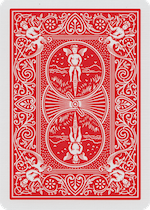
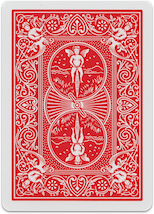
Perf improvements

diff --git a/public/ui_controller.js b/public/ui_controller.js
@@ -1,1 +1,1 @@
-class UIController{constructor(){this.name=null,this.socket=io(),this.canvas=document.getElementById("canvas"),this.slider=document.getElementById("slider"),this.graphicsContext=canvas.getContext("2d"),this.cards=[],this.grabbedCardID=null,this.players=[],this.currentPlayerIndex=null}begin(){this.graphics=new Graphics(this,this.canvas,this.graphicsContext),new MouseHandler(this,this.graphics,this.slider),this.socket.on("card data",this.updateCardsFromScocket.bind(this)),this.socket.on("single card data",this.updateSingleCardFromScocket.bind(this)),this.socket.on("register name",this.updateName.bind(this)),this.socket.on("players",this.updatePlayers.bind(this)),this.socket.on("game ID error",this.showError.bind(this)),this.socket.on("card download",this.downloadCardImage.bind(this)),this.socket.on("rearrange cards",this.rearrangeCards.bind(this))}updateName(a){const{playerName:b,gameID:c}=a;this.name=b;const d=document.getElementsByTagName("body")[0];d.className="playing";const e=document.getElementById("gameID");e.innerHTML="Game ID:<span>"+c+"</span>"}updatePlayers(a){this.players=a.players,this.currentPlayerIndex=a.currentPlayerIndex;const b=document.getElementById("players");for(;b.firstChild;)b.removeChild(b.firstChild);for(let c in this.players){const a=this.players[c],d=document.createElement("div");d.innerHTML=a,a==this.name&&(d.innerHTML+=" (You)"),c==this.currentPlayerIndex&&(d.className="current"),b.appendChild(d)}}hasName(){return null!=this.name}isTurn(){return this.players.indexOf(this.name)===this.currentPlayerIndex}submitName(a,b,c){b=b.toUpperCase();this.hasName()||this.socket.emit("enter",{name:a,gameID:b,verifyGameID:c})}cloneCard(a){return new Card(a.id,a.rotation,a.x,a.y,a.freed,a.rank,a.suite,a.width,a.height)}updateCardsFromScocket(a){this.cards=[],a.forEach(a=>{const b=this.cloneCard(a);this.cards.push(b)})}updateSingleCardFromScocket(a){const{id:b,card:c}=a;for(let d in this.cards){const a=this.cards[d];if(a.id==b)return void(this.cards[d]=this.cloneCard(c))}}rearrangeCards(a){const{from:b,to:c}=a,d=this.cards.splice(b,1)[0];this.cards.splice(c,0,d)}showError(){const a=document.getElementsByTagName("body")[0];a.className="error"}getCards(){return this.cards}isCardGrabbed(){return null!==this.grabbedCardID}grabCard(a){this.grabbedCardID=a.id,this.socket.emit("card move",{id:a.id,x:0,y:0})}releaseCard(){null!=this.grabbedCardID&&this.socket.emit("card release",{id:this.grabbedCardID}),this.grabbedCardID=null}moveCard(a,b){null==this.grabbedCardID||this.socket.emit("card move",{id:this.grabbedCardID,x:a,y:b})}downloadCardImage(a){const{rank:b,suite:c}=a;this.graphics.downloadCardImage(b,c)}setZoom(a){const b=Math.pow(10,a/100);this.graphics.setUserScale(b)}updateSlider(a){const b=100*Math.log10(a);this.slider.value=b}}"undefined"!=typeof module&&(module.exports=UIController);
+class UIController{constructor(){this.name=null,this.socket=io(),this.onScreenCanvas=document.getElementById("canvas"),this.offScreenCanvas=document.getElementById("canvas2"),this.slider=document.getElementById("slider"),this.onScreenCTX=this.onScreenCanvas.getContext("2d"),this.offScreenCTX=this.offScreenCanvas.getContext("2d"),this.cards=[],this.grabbedCard=null,this.players=[],this.currentPlayerIndex=null}begin(){this.graphics=new Graphics(this,this.onScreenCanvas,this.offScreenCanvas,this.onScreenCTX,this.offScreenCTX),new MouseHandler(this,this.graphics,this.slider),this.socket.on("card data",this.updateCardsFromScocket.bind(this)),this.socket.on("single card data",this.updateSingleCardFromScocket.bind(this)),this.socket.on("register name",this.updateName.bind(this)),this.socket.on("players",this.updatePlayers.bind(this)),this.socket.on("game ID error",this.showError.bind(this)),this.socket.on("card download",this.downloadCardImage.bind(this)),this.socket.on("rearrange cards",this.rearrangeCards.bind(this))}updateName(a){const{playerName:b,gameID:c}=a;this.name=b;const d=document.getElementsByTagName("body")[0];d.className="playing";const e=document.getElementById("gameID");e.innerHTML="Game ID:<span>"+c+"</span>"}updatePlayers(a){this.players=a.players,this.currentPlayerIndex=a.currentPlayerIndex;const b=document.getElementById("players");for(;b.firstChild;)b.removeChild(b.firstChild);for(let c in this.players){const a=this.players[c],d=document.createElement("div");d.innerHTML=a,a==this.name&&(d.innerHTML+=" (You)"),c==this.currentPlayerIndex&&(d.className="current"),b.appendChild(d)}}hasName(){return null!=this.name}isTurn(){return this.players.indexOf(this.name)===this.currentPlayerIndex}submitName(a,b,c){b=b.toUpperCase();this.hasName()||this.socket.emit("enter",{name:a,gameID:b,verifyGameID:c})}updateCardsFromScocket(a){this.cards=[],a.forEach(a=>{const b=Card.from(a);this.cards.push(b)})}updateSingleCardFromScocket(){}rearrangeCards(a){const{from:b,to:c}=a,d=this.cards.splice(b,1)[0];this.cards.splice(c,0,d)}showError(){const a=document.getElementsByTagName("body")[0];a.className="error"}getCards(){return this.cards}isCardGrabbed(){return null!==this.grabbedCard}grabCard(a){this.grabbedCard=a,this.socket.emit("card move",{id:a.getID(),x:0,y:0})}releaseCard(){null!=this.grabbedCard&&this.socket.emit("card release",{id:this.grabbedCard.getID()}),this.grabbedCard=null}moveCard(a,b,c,d){null==this.grabbedCard||(this.grabbedCard.x=c,this.grabbedCard.y=d,this.socket.emit("card move",{id:this.grabbedCard.getID(),x:a,y:b}))}downloadCardImage(a){const{rank:b,suite:c}=a;this.graphics.downloadCardImage(b,c)}setZoom(a){const b=Math.pow(10,a/100);this.graphics.setUserScale(b)}updateSlider(a){const b=100*Math.log10(a);this.slider.value=b}}"undefined"!=typeof module&&(module.exports=UIController);

diff --git a/public/mouse_handler.js b/public/mouse_handler.js
@@ -1,1 +1,1 @@
-class MouseHandler{constructor(a,b,c){this.controller=a,this.graphics=b,this.slider=c,this.isDraggingScreen,this.isZooming=!1,this.dragX=null,this.dragY=null,this.initListeners()}initListeners(){document.addEventListener("mousedown",this.mousedown.bind(this)),document.addEventListener("touchstart",this.mousedown.bind(this)),document.addEventListener("mousemove",this.mousemove.bind(this)),document.addEventListener("touchmove",this.mousemove.bind(this)),document.addEventListener("mouseup",this.mouseup.bind(this)),document.addEventListener("touchend",this.mouseup.bind(this));const a=document.getElementById("enter");a.addEventListener("click",this.enterGame.bind(this)),document.addEventListener("keyup",this.enterGameKey.bind(this));const b=document.getElementById("join");b.addEventListener("click",this.joinGame.bind(this)),this.slider.addEventListener("mousedown",this.zoomStart.bind(this)),this.slider.addEventListener("touchstart",this.zoomStart.bind(this)),this.slider.addEventListener("mousemove",this.zoom.bind(this)),this.slider.addEventListener("touchmove",this.zoom.bind(this)),this.slider.addEventListener("mouseup",this.zoomEnd.bind(this)),this.slider.addEventListener("touchend",this.zoomEnd.bind(this))}mousedown(a){if(!this.controller.hasName())return;a.touches&&(a=a.touches[0]),this.dragX=a.clientX,this.dragY=a.clientY;let b=null;if(this.controller.isTurn()){const c=this.controller.getCards();for(let d=c.length-1;0<=d;d--){const e=this.graphics.convertRealToVirtualX(a.clientX),f=this.graphics.convertRealToVirtualY(a.clientY);if(c[d].intersects(e,f)){b=c[d];break}}}return null==b?this.isDraggingScreen=!0:this.controller.grabCard(b),!1}mousemove(a){if(!this.controller.hasName())return;if(a.touches&&(a=a.touches[0]),null==this.dragX||null==this.dragY)return;const b=a.clientX-this.dragX,c=a.clientY-this.dragY;if(this.dragX=a.clientX,this.dragY=a.clientY,this.controller.isCardGrabbed()){const a=this.graphics.convertToVirtualScale(b),d=this.graphics.convertToVirtualScale(c);this.controller.moveCard(a,d)}else this.isDraggingScreen&&this.graphics.dragScreen(b,c)}mouseup(){this.controller.hasName()&&(this.controller.releaseCard(),this.dragX=null,this.dragY=null,this.isDraggingScreen=!1)}enterGame(a,b){b||(b=!1);const c=document.getElementById("name").value,d=document.getElementById("code").value;this.controller.submitName(c,d,b)}enterGameKey(a){13!==a.keyCode||this.enterGame(a,!1)}joinGame(a){a.stopPropagation(),this.enterGame(a,!0)}zoomStart(a){a.stopPropagation(),this.isZooming=!0}zoom(a){this.isZooming&&(a.stopPropagation(),this.controller.setZoom(a.toElement.value))}zoomEnd(){this.isZooming=!1}}"undefined"!=typeof module&&(module.exports=MouseHandler);
+class MouseHandler{constructor(a,b,c){this.controller=a,this.graphics=b,this.slider=c,this.isDraggingScreen,this.isZooming=!1,this.dragX=null,this.dragY=null,this.initListeners()}initListeners(){document.addEventListener("mousedown",this.mousedown.bind(this)),document.addEventListener("touchstart",this.mousedown.bind(this)),document.addEventListener("mousemove",this.mousemove.bind(this)),document.addEventListener("touchmove",this.mousemove.bind(this)),document.addEventListener("mouseup",this.mouseup.bind(this)),document.addEventListener("touchend",this.mouseup.bind(this));const a=document.getElementById("enter");a.addEventListener("click",this.enterGame.bind(this)),document.addEventListener("keyup",this.enterGameKey.bind(this));const b=document.getElementById("join");b.addEventListener("click",this.joinGame.bind(this)),this.slider.addEventListener("mousedown",this.zoomStart.bind(this)),this.slider.addEventListener("touchstart",this.zoomStart.bind(this)),this.slider.addEventListener("mousemove",this.zoom.bind(this)),this.slider.addEventListener("touchmove",this.zoom.bind(this)),this.slider.addEventListener("mouseup",this.zoomEnd.bind(this)),this.slider.addEventListener("touchend",this.zoomEnd.bind(this))}mousedown(a){if(!this.controller.hasName())return;a.touches&&(a=a.touches[0]),this.dragX=a.clientX,this.dragY=a.clientY;let b=null;if(this.controller.isTurn()){const c=this.controller.getCards();for(let d=c.length-1;0<=d;d--){const e=this.graphics.convertRealToVirtualX(a.clientX),f=this.graphics.convertRealToVirtualY(a.clientY);if(c[d].intersects(e,f)){b=c[d];break}}}return null==b?this.isDraggingScreen=!0:this.controller.grabCard(b),!1}mousemove(a){if(!this.controller.hasName())return;if(a.touches&&(a=a.touches[0]),null==this.dragX||null==this.dragY)return;const b=a.clientX-this.dragX,c=a.clientY-this.dragY;if(this.dragX=a.clientX,this.dragY=a.clientY,this.controller.isCardGrabbed()){const d=this.graphics.convertToVirtualScale(b),e=this.graphics.convertToVirtualScale(c),f=this.graphics.convertRealToVirtualX(a.clientX),g=this.graphics.convertRealToVirtualY(a.clientY);this.controller.moveCard(d,e,f,g)}else this.isDraggingScreen&&this.graphics.dragScreen(b,c)}mouseup(){this.controller.hasName()&&(this.controller.releaseCard(),this.dragX=null,this.dragY=null,this.isDraggingScreen=!1)}enterGame(a,b){b||(b=!1);const c=document.getElementById("name").value,d=document.getElementById("code").value;this.controller.submitName(c,d,b)}enterGameKey(a){13!==a.keyCode||this.enterGame(a,!1)}joinGame(a){a.stopPropagation(),this.enterGame(a,!0)}zoomStart(a){a.stopPropagation(),this.isZooming=!0}zoom(a){this.isZooming&&(a.stopPropagation(),this.controller.setZoom(a.toElement.value))}zoomEnd(){this.isZooming=!1}}"undefined"!=typeof module&&(module.exports=MouseHandler);

diff --git a/public/graphics.js b/public/graphics.js
@@ -1,1 +1,1 @@
-class Graphics{constructor(a,b,c){this.controller=a,this.canvas=b,this.ctx=c,this.dragX=0,this.dragY=0,this.scale=null,this.cardBackImage=null,this.tableImage=null,this.cardFaceImages={},this.loadImages(),this.drawLoop(),window.addEventListener("resize",this.onResize.bind(this))}loadImages(){this.cardBackImage=new Image,this.cardBackImage.src="images/back.png",this.tableImage=new Image,this.tableImage.src="images/stone.jpg",this.logoImage=new Image,this.logoImage.src="images/logo.png",this.rules1Image=new Image,this.rules1Image.src="images/rules1.png",this.rules2Image=new Image,this.rules2Image.src="images/rules2.png",Card.RANKS.forEach(a=>{this.cardFaceImages[a]={}})}drawLoop(){this.ctx.save(),this.clearAndResize(),this.drawCards(),this.ctx.restore(),setTimeout(this.drawLoop.bind(this),100)}onResize(){null==this.scale&&(this.scale=1.5);const a=window.innerWidth*2,b=window.innerHeight*2,c=5*(this.scale*Card.HEIGHT);if(c>a||c>b){const d=Math.min(a/c,b/c);this.scale=d*this.scale,this.controller.updateSlider(this.scale)}}clearAndResize(){const a=this.ctx,b=window.innerWidth*2,c=window.innerHeight*2;null==this.scale&&this.onResize(),this.canvas.width=b,this.canvas.height=c,this.canvas.style=`width: ${b/2}px; height: ${c/2}px`,this.drawBackground(b,c),this.translateX=b/2,this.translateY=c/2,a.translate(this.translateX,this.translateY),a.translate(this.dragX,this.dragY),a.scale(this.scale,this.scale);a.drawImage(this.logoImage,-180,-180,360,360)}drawBackground(a,b){const c=this.ctx,d=c.createPattern(this.tableImage,"repeat");if(null!=d){const c=new DOMMatrix,e=c.translateSelf(this.dragX+a/2,this.dragY+b/2,0).scaleSelf(2*this.scale,2*this.scale,1);d.setTransform(e)}c.fillStyle=d,c.fillRect(0,0,a,b)}drawCards(){const a=this.controller.getCards();for(const b in a){const c=a[b],{rank:d,suite:e}=c.getRankAndSuite();if("rules1"==c.getID())c.draw(this.ctx,this.rules1Image);else if("rules2"==c.getID())c.draw(this.ctx,this.rules2Image);else if(null==d||null==e)c.draw(this.ctx,this.cardBackImage);else{const a=this.downloadCardImage(d,e);c.draw(this.ctx,a)}}}downloadCardImage(a,b){let c=this.cardFaceImages[a][b];return null==c&&(c=new Image,this.cardFaceImages[a][b]=c,c.src=`images/cards/${a}${b}.png`),c}convertRealToVirtualX(a){return(2*a-this.translateX-this.dragX)/this.scale}convertRealToVirtualY(a){return(2*a-this.translateY-this.dragY)/this.scale}convertToVirtualScale(a){return 2*a/this.scale}dragScreen(a,b){this.dragX+=a,this.dragY+=b}setUserScale(a){this.scale=a}}"undefined"!=typeof module&&(module.exports=Graphics);
+class Graphics{constructor(a,b,c,d,e){this.controller=a,this.onScreenCanvas=b,this.offScreenCanvas=c,this.onScreenCTX=d,this.ctx=e,this.dragX=0,this.dragY=0,this.scale=null,this.cardBackImage=null,this.tableImage=null,this.cardFaceImages={},this.loadImages(),window.requestAnimationFrame(this.drawLoop.bind(this)),window.addEventListener("resize",this.onResize.bind(this))}loadImages(){this.cardBackImage=new Image,this.cardBackImage.src="images/back.png",this.tableImage=new Image,this.tableImage.src="images/stone.jpg",this.logoImage=new Image,this.logoImage.src="images/logo.png",this.rules1Image=new Image,this.rules1Image.src="images/rules1.png",this.rules2Image=new Image,this.rules2Image.src="images/rules2.png",Card.RANKS.forEach(a=>{this.cardFaceImages[a]={}})}drawLoop(){this.ctx.save(),this.clearAndResize(),this.drawCards(),this.ctx.restore(),this.onScreenCTX.drawImage(this.offScreenCanvas,0,0),window.requestAnimationFrame(this.drawLoop.bind(this))}onResize(){null==this.scale&&(this.scale=1.5);const a=window.innerWidth*2,b=window.innerHeight*2,c=5*(this.scale*Card.HEIGHT);if(c>a||c>b){const d=Math.min(a/c,b/c);this.scale=d*this.scale,this.controller.updateSlider(this.scale)}}clearAndResize(){const a=this.ctx,b=window.innerWidth*2,c=window.innerHeight*2;null==this.scale&&this.onResize(),this.onScreenCanvas.width=b,this.onScreenCanvas.height=c,this.offScreenCanvas.width=b,this.offScreenCanvas.height=c,this.onScreenCanvas.style=`width: ${b/2}px; height: ${c/2}px`,this.drawBackground(b,c),this.translateX=b/2,this.translateY=c/2,a.translate(this.translateX,this.translateY),a.translate(this.dragX,this.dragY),a.scale(this.scale,this.scale);a.drawImage(this.logoImage,-180,-180,360,360)}drawBackground(a,b){const c=this.ctx,d=c.createPattern(this.tableImage,"repeat");if(null!=d){const c=new DOMMatrix,e=c.translateSelf(this.dragX+a/2,this.dragY+b/2,0).scaleSelf(2*this.scale,2*this.scale,1);d.setTransform(e)}c.fillStyle=d,c.fillRect(0,0,a,b)}drawCards(){const a=this.controller.getCards();for(const b in a){const c=a[b],{rank:d,suite:e}=c.getRankAndSuite();if("rules1"==c.getID())c.draw(this.ctx,this.rules1Image);else if("rules2"==c.getID())c.draw(this.ctx,this.rules2Image);else if(null==d||null==e)c.draw(this.ctx,this.cardBackImage);else{const a=this.downloadCardImage(d,e);c.draw(this.ctx,a)}}}downloadCardImage(a,b){let c=this.cardFaceImages[a][b];return null==c&&(c=new Image,this.cardFaceImages[a][b]=c,c.src=`images/cards/${a}${b}.png`),c}convertRealToVirtualX(a){return(2*a-this.translateX-this.dragX)/this.scale}convertRealToVirtualY(a){return(2*a-this.translateY-this.dragY)/this.scale}convertToVirtualScale(a){return 2*a/this.scale}dragScreen(a,b){this.dragX+=a,this.dragY+=b}setUserScale(a){this.scale=a}}"undefined"!=typeof module&&(module.exports=Graphics);

diff --git a/frontend_js/ui_controller.js b/frontend_js/ui_controller.js
@@ -4,17 +4,19 @@ class UIController {
   constructor() {
     this.name = null;
     this.socket = io();
-    this.canvas = document.getElementById('canvas');
+    this.onScreenCanvas = document.getElementById('canvas');
+    this.offScreenCanvas = document.getElementById('canvas2');
     this.slider = document.getElementById("slider");
-    this.graphicsContext = canvas.getContext('2d');
+    this.onScreenCTX = this.onScreenCanvas.getContext('2d');
+    this.offScreenCTX = this.offScreenCanvas.getContext('2d');
     this.cards = [];
-    this.grabbedCardID = null;
+    this.grabbedCard = null;
     this.players = [];
     this.currentPlayerIndex = null;
   }
 
   begin() {
-    this.graphics = new Graphics(this, this.canvas, this.graphicsContext);
+    this.graphics = new Graphics(this, this.onScreenCanvas, this.offScreenCanvas, this.onScreenCTX, this.offScreenCTX);
     new MouseHandler(this, this.graphics, this.slider);
     this.socket.on('card data', this.updateCardsFromScocket.bind(this));
     this.socket.on('single card data', this.updateSingleCardFromScocket.bind(this));
@@ -72,34 +74,26 @@ class UIController {
     this.socket.emit('enter', {name, gameID, verifyGameID});
   }
 
-  cloneCard(card) {
-    return new Card(
-      card.id,
-      card.rotation,
-      card.x,
-      card.y,
-      card.freed,
-      card.rank,
-      card.suite,
-      card.width,
-      card.height
-    );
-  }
-
   updateCardsFromScocket(cardData) {
     this.cards = [];
     cardData.forEach((card) => {
-      const newCard = this.cloneCard(card);
+      const newCard = Card.from(card);
       this.cards.push(newCard);
     });
   }
 
   updateSingleCardFromScocket(data) {
-    const {id, card} = data;
+    const {id, card, name} = data;
     for (let i in this.cards) {
       const oldCard = this.cards[i];
       if (oldCard.id == id) {
-        this.cards[i] = this.cloneCard(card);
+        if (this.grabbedCard == null || name != this.name) {
+          oldCard.x = card.x;
+          oldCard.y = card.y;
+        }
+        oldCard.freed = card.freed;
+        oldCard.rank = card.rank;
+        oldCard.suite = card.suite;
         return;
       }
     }
@@ -121,26 +115,29 @@ class UIController {
   }
 
   isCardGrabbed() {
-    return this.grabbedCardID !== null;
+    return this.grabbedCard !== null;
   }
 
   grabCard(grabbedCard) {
-    this.grabbedCardID = grabbedCard.id;
-    this.socket.emit('card move', { id: grabbedCard.id, x: 0, y: 0});
+    this.grabbedCard = grabbedCard;
+    this.socket.emit('card move', { id: grabbedCard.getID(), x: 0, y: 0});
   }
 
   releaseCard() {
-    if (this.grabbedCardID != null) {
-      this.socket.emit('card release', { id: this.grabbedCardID });
+    if (this.grabbedCard != null) {
+      this.socket.emit('card release', { id: this.grabbedCard.getID() });
     }
-    this.grabbedCardID = null;
+    this.grabbedCard = null;
   }
 
-  moveCard(x, y) {
-    if (this.grabbedCardID == null) {
+  moveCard(byX, byY, toX, toY) {
+    if (this.grabbedCard == null) {
       return;
     }
-    this.socket.emit('card move', { id: this.grabbedCardID, x, y});
+
+    this.grabbedCard.x = toX;
+    this.grabbedCard.y = toY;
+    this.socket.emit('card move', { id: this.grabbedCard.getID(), x: byX, y: byY});
   }
 
   downloadCardImage(data) {

diff --git a/public/card.js b/public/card.js
@@ -1,1 +1,1 @@
-class Card{static get WIDTH(){return 150}static get HEIGHT(){return 210}static get SUITES(){return["C","D","H","S"]}static get RANKS(){return["2","3","4","5","6","7","8","9","10","J","Q","K","A"]}constructor(a,b,c,d,e,f,g,h,i){this.id=a,this.rotation=b,this.x=c,this.y=d,this.freed=e,this.rank=f,this.suite=g,this.width=h?h:Card.WIDTH,this.height=i?i:Card.HEIGHT}getID(){return this.id}getRankAndSuite(){return{rank:this.rank,suite:this.suite}}getEdges(){var e=Math.sin,f=Math.cos;Number.isInteger(2*this.rotation/Math.PI)&&(this.rotation+=.01);const g=this.height*f(this.rotation),a=this.width*e(this.rotation),b=this.width*f(this.rotation),c=this.height*e(this.rotation),d=this.x-(b+c)/2,h=this.y+(g-a)/2,i=this.x-(c-b)/2,j=this.y+(g+a)/2,k=this.x+(b+c)/2,l=this.y-(g-a)/2,m=this.x+(c-b)/2,n=this.y-(g+a)/2;return{slope1:a/b,slope2:g/c,p1x:d,p1y:h,p2x:i,p2y:j,p3x:k,p3y:l,p4x:m,p4y:n}}intersects(a,b){var c=Math.sign;const d=this.getEdges(),e=c(Math.sin(this.rotation)),f=c(Math.cos(this.rotation));return f*b<f*(a=>a*d.slope1-d.p1x*d.slope1+d.p1y)(a)&&e*b<e*(a=>-a*d.slope2+d.p3x*d.slope2+d.p3y)(a)&&e*b>e*(a=>-a*d.slope2+d.p1x*d.slope2+d.p1y)(a)&&f*b>f*(a=>a*d.slope1-d.p3x*d.slope1+d.p3y)(a)}distanceFromCenter(){return Math.sqrt(this.x*this.x+this.y*this.y)}draw(a,b){let c=this.width,d=this.height;this.freed&&(c*=1.5,d*=1.5),a.save(),a.translate(this.x,this.y),a.rotate(this.rotation),a.translate(-c/2,-d/2),a.fillStyle="rgba(0,0,0,0.01)",a.shadowColor="rgba(0,0,0,1)",a.shadowBlur=3,a.shadowOffsetX=1,a.shadowOffsetY=1,a.fillRect(0,0,c,d),a.drawImage(b,0,0,c,d),a.restore()}}"undefined"!=typeof module&&(module.exports=Card);
+class Card{static get WIDTH(){return 154}static get HEIGHT(){return 214}static get SUITES(){return["C","D","H","S"]}static get RANKS(){return["2","3","4","5","6","7","8","9","10","J","Q","K","A"]}constructor(a,b,c,d,e,f,g,h,i){this.id=a,this.rotation=b,this.x=c,this.y=d,this.freed=e,this.rank=f,this.suite=g,this.width=h?h:Card.WIDTH,this.height=i?i:Card.HEIGHT}static from(a){return new Card(a.id,a.rotation,a.x,a.y,a.freed,a.rank,a.suite,a.width,a.height)}getID(){return this.id}getRankAndSuite(){return{rank:this.rank,suite:this.suite}}getEdges(){var e=Math.sin,f=Math.cos;Number.isInteger(2*this.rotation/Math.PI)&&(this.rotation+=.01);const g=this.height*f(this.rotation),a=this.width*e(this.rotation),b=this.width*f(this.rotation),c=this.height*e(this.rotation),d=this.x-(b+c)/2,h=this.y+(g-a)/2,i=this.x-(c-b)/2,j=this.y+(g+a)/2,k=this.x+(b+c)/2,l=this.y-(g-a)/2,m=this.x+(c-b)/2,n=this.y-(g+a)/2;return{slope1:a/b,slope2:g/c,p1x:d,p1y:h,p2x:i,p2y:j,p3x:k,p3y:l,p4x:m,p4y:n}}intersects(a,b){var c=Math.sign;const d=this.getEdges(),e=c(Math.sin(this.rotation)),f=c(Math.cos(this.rotation));return f*b<f*(a=>a*d.slope1-d.p1x*d.slope1+d.p1y)(a)&&e*b<e*(a=>-a*d.slope2+d.p3x*d.slope2+d.p3y)(a)&&e*b>e*(a=>-a*d.slope2+d.p1x*d.slope2+d.p1y)(a)&&f*b>f*(a=>a*d.slope1-d.p3x*d.slope1+d.p3y)(a)}distanceFromCenter(){return Math.sqrt(this.x*this.x+this.y*this.y)}draw(a,b){let c=this.width,d=this.height;this.freed&&(c*=1.5,d*=1.5),a.save(),a.translate(this.x,this.y),a.rotate(this.rotation),a.translate(-c/2,-d/2),a.drawImage(b,0,0,c,d),a.restore()}}"undefined"!=typeof module&&(module.exports=Card);

diff --git a/frontend_js/graphics.js b/frontend_js/graphics.js
@@ -1,10 +1,12 @@
 // Copyright 2020, Zaven Nahapetyan
 
 class Graphics {
-  constructor(controller, canvas, ctx) {
+  constructor(controller, onScreenCanvas, offScreenCanvas, onScreenCTX, offScreenCTX) {
     this.controller = controller;
-    this.canvas = canvas;
-    this.ctx = ctx;
+    this.onScreenCanvas = onScreenCanvas;
+    this.offScreenCanvas = offScreenCanvas;
+    this.onScreenCTX = onScreenCTX;
+    this.ctx = offScreenCTX;
     this.dragX = 0;
     this.dragY = 0;
     this.scale = null;
@@ -13,7 +15,7 @@ class Graphics {
     this.tableImage = null;
     this.cardFaceImages = {};
     this.loadImages();
-    this.drawLoop();
+    window.requestAnimationFrame(this.drawLoop.bind(this));
     window.addEventListener('resize', this.onResize.bind(this));
   }
 
@@ -39,7 +41,8 @@ class Graphics {
     this.clearAndResize();
     this.drawCards();
     this.ctx.restore();
-    setTimeout(this.drawLoop.bind(this), 100);
+    this.onScreenCTX.drawImage(this.offScreenCanvas, 0, 0);
+    window.requestAnimationFrame(this.drawLoop.bind(this));
   }
 
   onResize() {
@@ -69,9 +72,12 @@ class Graphics {
       this.onResize();
     }
 
-    this.canvas.width = width;
-    this.canvas.height = height;
-    this.canvas.style =
+    this.onScreenCanvas.width = width;
+    this.onScreenCanvas.height = height;
+    this.offScreenCanvas.width = width;
+    this.offScreenCanvas.height = height;
+
+    this.onScreenCanvas.style =
       `width: ${width / canvasDensity}px; height: ${height / canvasDensity}px`;
     this.drawBackground(width, height);
 

diff --git a/frontend_js/card.js b/frontend_js/card.js
@@ -2,11 +2,11 @@
 
 class Card {
   static get WIDTH() {
-    return 150;
+    return 154;
   }
 
   static get HEIGHT() {
-    return 210;
+    return 214;
   }
 
   static get SUITES() {
@@ -39,6 +39,20 @@ class Card {
     } else {
       this.height = Card.HEIGHT;
     }
+  }
+
+  static from(card) {
+    return new Card(
+      card.id,
+      card.rotation,
+      card.x,
+      card.y,
+      card.freed,
+      card.rank,
+      card.suite,
+      card.width,
+      card.height
+    );
   }
 
   getID() {
@@ -104,13 +118,6 @@ class Card {
     ctx.translate(this.x, this.y);
     ctx.rotate(this.rotation);
     ctx.translate(-width / 2, -height / 2);
-
-    ctx.fillStyle = "rgba(0,0,0,0.01)";
-    ctx.shadowColor = "rgba(0,0,0,1)";
-    ctx.shadowBlur = 3;
-    ctx.shadowOffsetX = 1;
-    ctx.shadowOffsetY = 1;
-    ctx.fillRect(0, 0, width, height);
     ctx.drawImage(cardImage, 0, 0, width, height);
     ctx.restore();
   }

diff --git a/backend_js/backend_controller.js b/backend_js/backend_controller.js
@@ -79,7 +79,7 @@ class BackendController {
           if (game == null) {
             return;
           }
-          const {id, x, y} = data;
+          const {name, id, x, y} = data;
           const gameID = game.getID();
           game.moveCard(id, x, y);
           const grabbedCard = game.getCardByID(id);
@@ -172,8 +172,12 @@ class BackendController {
 
   emitSingleCard(gameID, grabbedCard) {
     const game = this.games[gameID];
+    const activePlayerName = game.getActivePlayer();
     const id = grabbedCard.getID();
-    this.io.to(game.getID()).emit('single card data', {id, card: grabbedCard});
+    this.io.to(game.getID()).emit(
+      'single card data',
+      {id, card: grabbedCard, name: activePlayerName}
+    );
   }
 
   emitCardDownload(gameID, card) {

diff --git a/frontend_js/mouse_handler.js b/frontend_js/mouse_handler.js
@@ -84,9 +84,11 @@ class MouseHandler {
     this.dragY = event.clientY;
 
     if (this.controller.isCardGrabbed()) {
-      const x = this.graphics.convertToVirtualScale(moveByX);
-      const y = this.graphics.convertToVirtualScale(moveByY);
-      this.controller.moveCard(x, y);
+      const byX = this.graphics.convertToVirtualScale(moveByX);
+      const byY = this.graphics.convertToVirtualScale(moveByY);
+      const toX = this.graphics.convertRealToVirtualX(event.clientX);
+      const toY = this.graphics.convertRealToVirtualY(event.clientY);
+      this.controller.moveCard(byX, byY, toX, toY);
     } else if (this.isDraggingScreen) {
       this.graphics.dragScreen(moveByX, moveByY);
     }

diff --git a/backend_js/game.js b/backend_js/game.js
@@ -40,6 +40,13 @@ class Game {
     };
   }
 
+  getActivePlayer() {
+    if (this.players.length === 0) {
+      return null;
+    }
+    return this.players[this.currentPlayerIndex % this.players.length];
+  }
+
   removePlayer(playerName) {
     const nameIndex = this.players.indexOf(playerName);
     if (nameIndex >= 0) {

diff --git a/public/index.html b/public/index.html
@@ -48,6 +48,7 @@
 <span id="gameID"></span>
 <div id="players"></div>
 <input type="range" min="-40" max="40" value="0" id="slider"></input>
+<canvas id="canvas2"></canvas>
 <canvas id="canvas"></canvas>
 <script src="/socket.io/socket.io.js"></script>
 <script src="card.js"></script>

diff --git a/public/main.css b/public/main.css
@@ -16,6 +16,12 @@ div {
   display: flex;
 }
 
+#canvas2 {
+  position: absolute;
+  top: 100%;
+  left: 100%;
+}
+
 .playing #overlay {
   display: none;
 }
